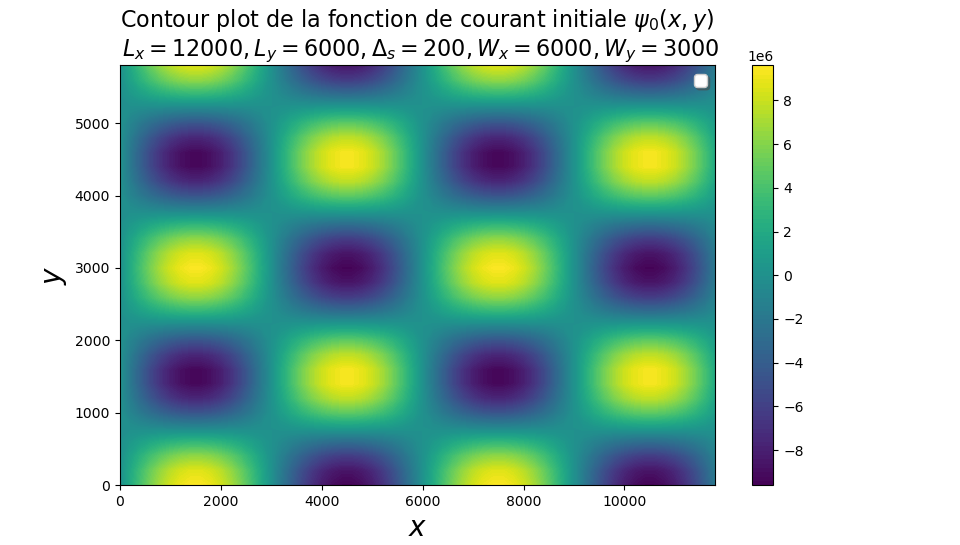
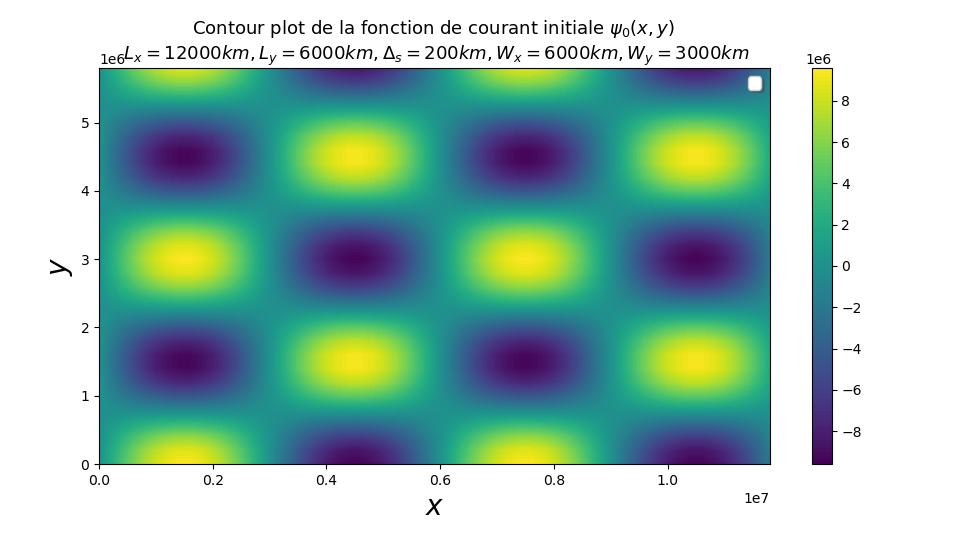
correction échelles + indentations

diff --git a/sim.py b/sim.py
@@ -5,15 +5,15 @@ import numpy as np
 ###################################################### Paramètres de la simulation ##################################################
 
 phi_0 = ((2*np.pi)/360)*45  # latitude en radian
-Delta_s = 200  # résolution de la maille spatiale
-Delta_t = 1  # résolution de la maille temporelle
-T = 360  # temps total de simulation
-L_x = 12000  # longueur du domaine selon x
-L_y = 6000  # longueur du domaine selon y en km
+Delta_s = 200000  # résolution de la maille spatiale en mètre
+Delta_t = 1  # résolution de la maille temporelle en seconde
+T = 360  # temps total de simulation en seconde
+L_x = 12000000  # longueur du domaine selon x en mètre
+L_y = 6000000  # longueur du domaine selon y en mètre
 M = int(L_x/Delta_s)  # nombre d'itération selon x
 N = int(L_y/Delta_s)  # nombre d'itération selon x
-W_x = 6000  # longueurs d'onde champ initial selon x
-W_y = 3000  # longueurs d'onde champ initial selon y
+W_x = 6000000  # longueurs d'onde champ initial selon x en mètre
+W_y = 3000000  # longueurs d'onde champ initial selon y en mètre
 Omega = 7.292115*10**(-5)  # vitesse angulaire de la rotation de la Terre
 g = 9.81  # norme de l'accélaration gravitationnelle
 
@@ -67,8 +67,8 @@ def vort_init():
                 # conditions aux bords périodiques : l'Est du domaine = l'Ouest du domaine
                 vort[:, M-1] = vort[:, 0]
             else:
-                vort[i, j] = (1/(Delta_s**2))*(-4*psi_0[i, j]+psi_0[i+1, j] +
-                                               psi_0[i-1, j]+psi_0[i, j+1]+psi_0[i, j-1])
+                vort[i, j] = (1/(Delta_s**2))*(-4*psi_0[i, j]+psi_0[i, j+1] +
+                                               psi_0[i, j-1]+psi_0[i+1, j]+psi_0[i-1, j])
                 # print("vort({},{}) =".format(i, j), vort[i, j])
     return vort
 
@@ -91,8 +91,8 @@ def velocity_field():
                 u[:, M-1] = u[:, 0]
                 v[:, M-1] = v[:, 0]
             else:
-                u[i, j] = (-1/(2*Delta_s))*(psi_0[i, j+1]-psi_0[i, j-1])
-                v[i, j] = (1/(2*Delta_s))*(psi_0[i+1, j]-psi_0[i-1, j])
+                u[i, j] = (-1/(2*Delta_s))*(psi_0[i+1, j]-psi_0[i-1, j])
+                v[i, j] = (1/(2*Delta_s))*(psi_0[i, j+1]-psi_0[i, j-1])
     return [u, v]
 
 
@@ -108,21 +108,23 @@ print("Résolution numérique avec une grille temporelle de {} points".format(le
 X, Y = np.meshgrid(x, y)
 plt.contourf(X, Y, psi_init(), 100)
 plt.colorbar()
-plt.title("Contour plot de la fonction de courant initiale $\psi_0(x,y)$ \n $L_x = {}, L_y = {}, \Delta_s = {}, W_x = {}, W_y = {}$".format(
-    L_x, L_y, Delta_s, W_x, W_y), fontsize=16)
+plt.title("Contour plot de la fonction de courant initiale $\psi_0(x,y)$ \n $L_x = {}km, L_y = {}km, \Delta_s = {}km, W_x = {}km, W_y = {}km$ ".format(
+    int(L_x/1000), int(L_y/1000), int(Delta_s/1000), int(W_x/1000), int(W_y/1000)), fontsize=13)
 plt.legend(loc='best', shadow=True, fontsize="large")
 plt.xlabel("$x$", fontsize=20)
 plt.ylabel("$y$", fontsize=20)
+plt.tight_layout()
 plt.show()
 
 # Contourplot de la composante verticale de la vorticité relative initiale
 plt.contourf(X, Y, vort_init(), 100)
 plt.colorbar()
-plt.title("Contour plot de $\zeta_0(x,y)$ \n $L_x = {}, L_y = {}, \Delta_s = {}, W_x = {}, W_y = {}$".format(
-    L_x, L_y, Delta_s, W_x, W_y), fontsize=16)
+plt.title("Contour plot de $\zeta_0(x,y)$ \n $L_x = {}km, L_y = {}km, \Delta_s = {}km, W_x = {}km, W_y = {}km$ ".format(
+    int(L_x/1000), int(L_y/1000), int(Delta_s/1000), int(W_x/1000), int(W_y/1000)), fontsize=13)
 plt.legend(loc='best', shadow=True, fontsize="large")
 plt.xlabel("$x$", fontsize=20)
 plt.ylabel("$y$", fontsize=20)
+plt.tight_layout()
 plt.show()
 
 
@@ -130,17 +132,19 @@ plt.show()
 
 U = velocity_field()[0]
 V = velocity_field()[1]
+zero = np.zeros((N, M))
 slice_interval = 1  # Slicer index for smoother quiver function
 skip = (slice(None, None, slice_interval), slice(None, None, slice_interval))
 vels = np.hypot(U, V)  # Velocity norm of each velocity vector
 Quiver = plt.quiver(X[skip], Y[skip], U[skip], V[skip], vels[skip],
-                    units='height', angles='xy', scale=350000)
+                    units='height', angles='xy')
 plt.colorbar(Quiver)
 # plt.quiverkey(Quiver, 1.01, 1.01, 30000, label="?m/s",
 # labelcolor = 'blue', labelpos = 'N', coordinates = "axes")
-plt.title("Champ de vitesse initial $(u_0(x,y),v_0(x,y))$ \n $L_x = {}, L_y = {}, \Delta_s = {}, W_x = {}, W_y = {}$".format(
-    L_x, L_y, Delta_s, W_x, W_y), fontsize=16)
+plt.title("Champ de vitesse initial $(u_0(x,y),v_0(x,y))$ \n $L_x = {}km, L_y = {}km, \Delta_s = {}km, W_x = {}km, W_y = {}km$ ".format(
+    int(L_x/1000), int(L_y/1000), int(Delta_s/1000), int(W_x/1000), int(W_y/1000)), fontsize=13)
 plt.legend(loc='best', shadow=True, fontsize="large")
 plt.xlabel("$x$", fontsize=20)
 plt.ylabel("$y$", fontsize=20)
+plt.tight_layout()
 plt.show()
